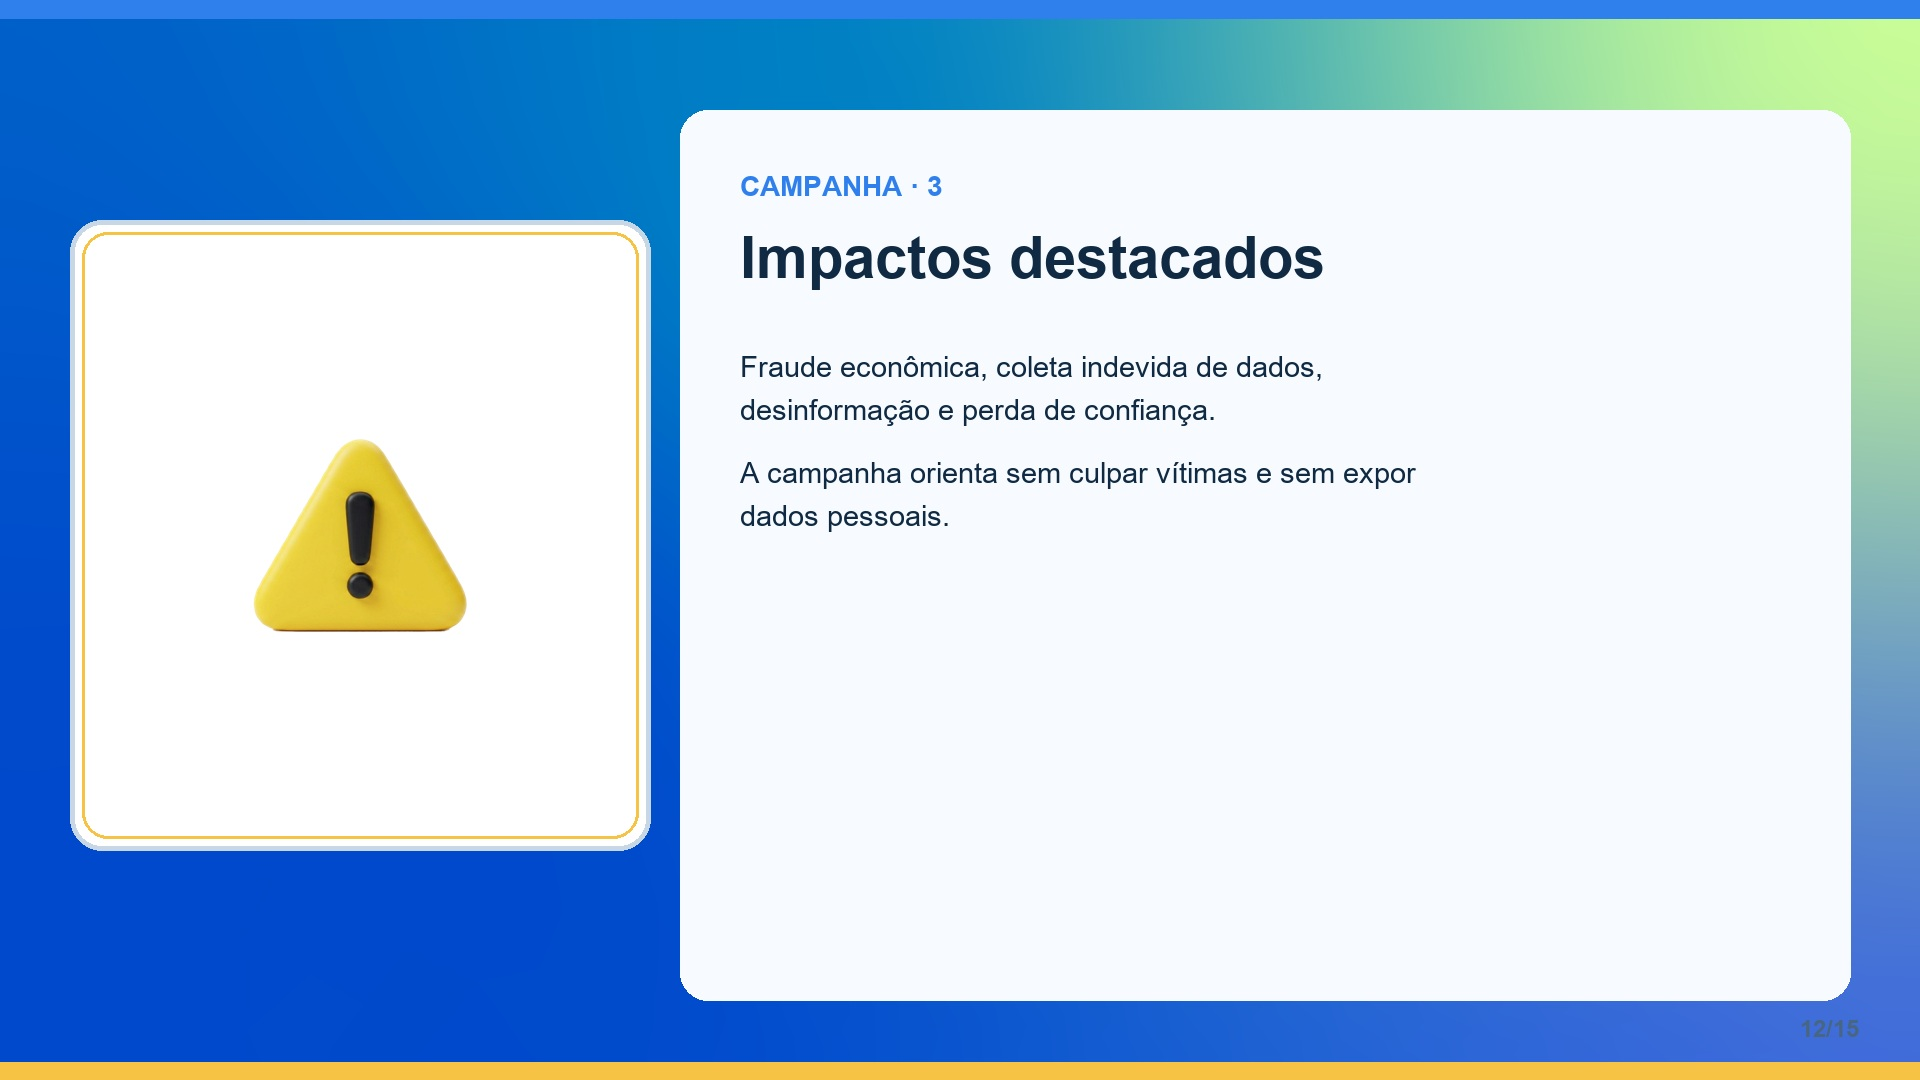
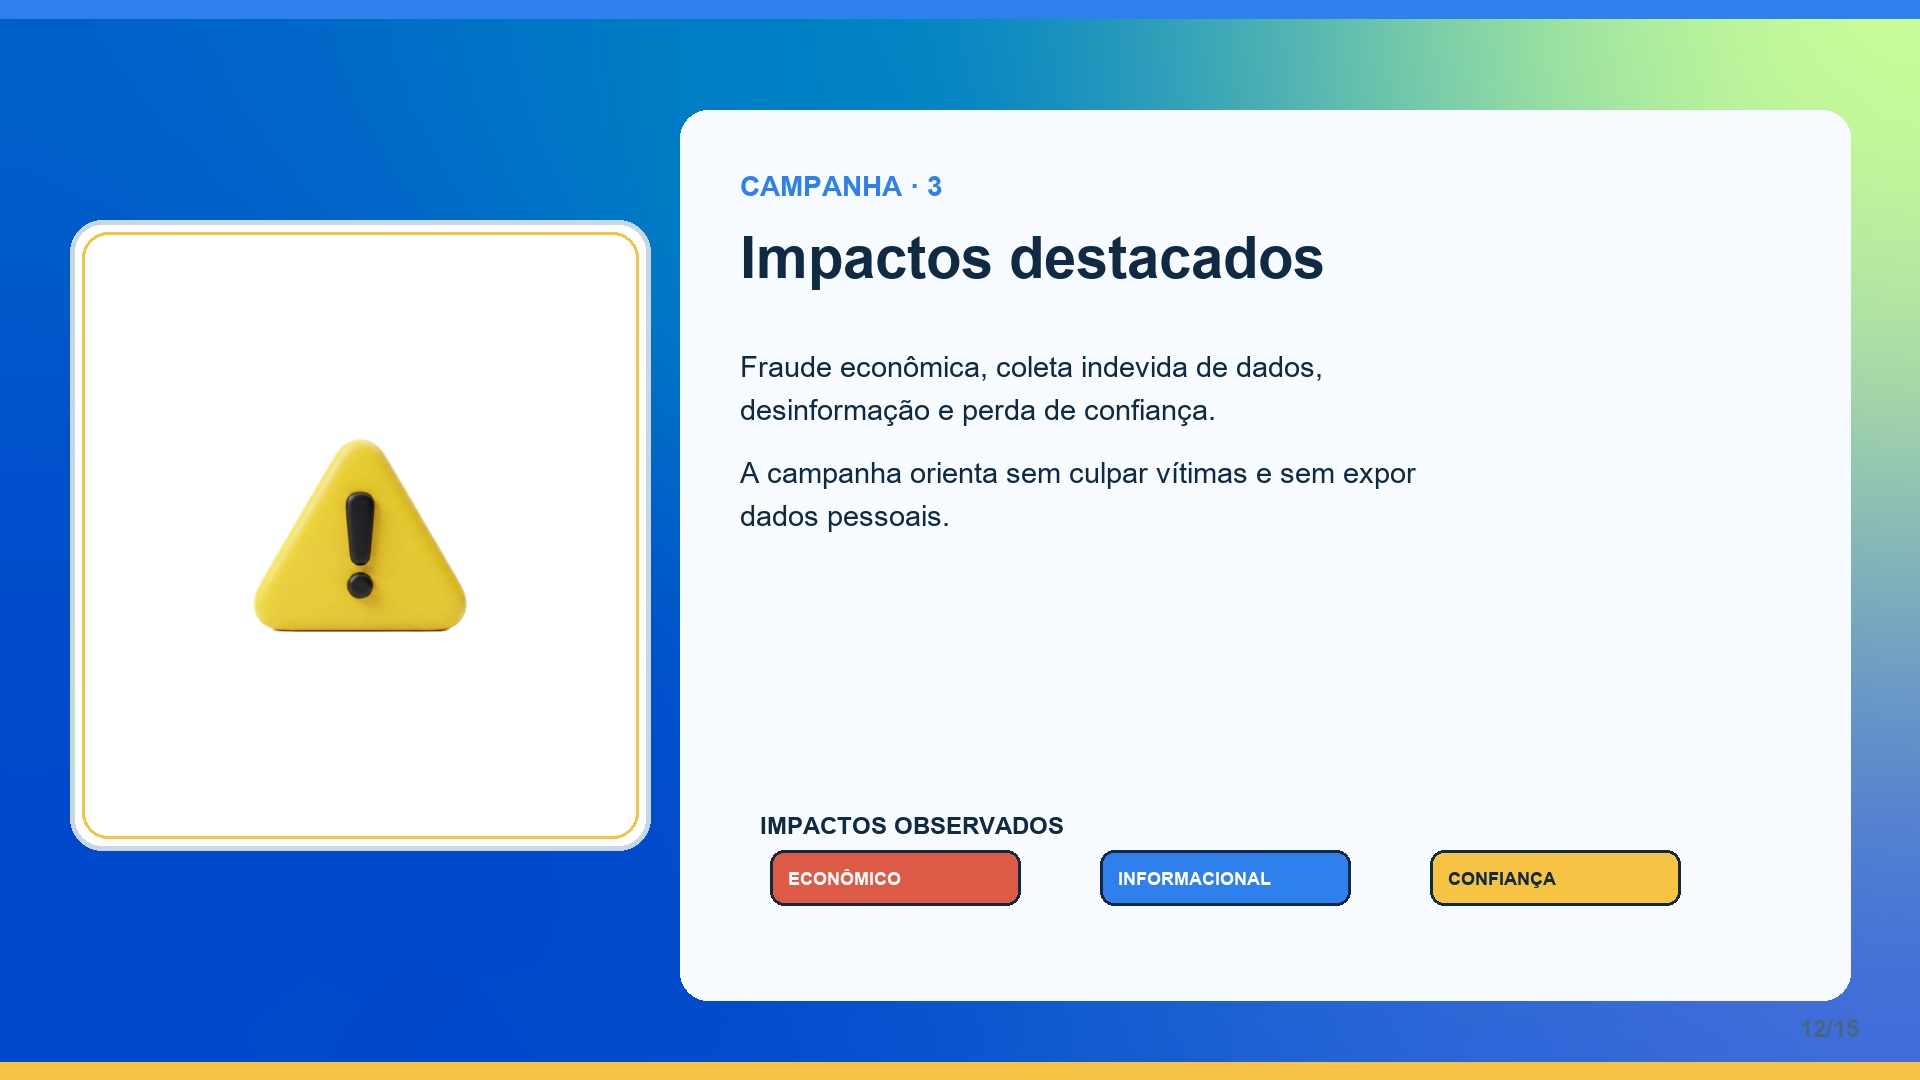
feat: gerar graficos correlacionados por slide

Changed region(s): [[0.375, 0.7333, 0.875, 0.8556]]

diff --git a/scripts/generate_n3_jpgs.py b/scripts/generate_n3_jpgs.py
@@ -23,6 +23,21 @@ def diagram(d, i):
     # Diagramas autorais: visualizam relações documentadas sem reproduzir mídia jornalística protegida.
     groups={2:['IMAGEM/VOZ','OFERTA','USUÁRIO'],3:['VÍDEO PRÉVIO','VOZ SINTÉTICA','ANÚNCIO'],5:['RELATO','CIRCULAÇÃO','IMPACTO'],6:['IA','IDENTIDADE','INCENTIVO'],7:['CONTEÚDO','CONFIANÇA','DANO'],8:['CONCEITO','EVIDÊNCIA','LIMITE'],9:['PAUSAR','CONFIRMAR','DENUNCIAR']}
     labels=groups.get(i)
+    if i==4:
+        d.line((760,855,1740,855),fill=(16,42,67),width=6)
+        for x,label in [(800,'ORIGEM'),(1120,'EDIÇÃO'),(1450,'CIRCULAÇÃO'),(1700,'CHECAGEM')]:
+            d.ellipse((x-18,837,x+18,873),fill=(246,195,68),outline=(16,42,67),width=3); d.text((x-55,885),label,font=font(20,1),fill=(16,42,67))
+        return
+    if i==10:
+        for n,(label,sub) in enumerate([('PÚBLICO','estudantes'),('MENSAGEM','direta'),('CANAL','escola')]):
+            x=770+n*335; d.rounded_rectangle((x,815,x+260,900),radius=16,fill=(16,42,67),outline=(246,195,68),width=3); d.text((x+18,830),label,font=font(21,1),fill=(255,255,255)); d.text((x+18,865),sub,font=font(19),fill=(255,255,255))
+            if n<2:d.line((x+260,857,x+335,y if False else 857),fill=(246,195,68),width=5)
+        return
+    if i==12:
+        d.text((760,812),'IMPACTOS OBSERVADOS',font=font(24,1),fill=(16,42,67))
+        for n,(label,color) in enumerate([('ECONÔMICO',(220,90,70)),('INFORMACIONAL',(47,128,237)),('CONFIANÇA',(246,195,68))]):
+            x=770+n*330; d.rounded_rectangle((x,850,x+250,905),radius=14,fill=color,outline=(16,42,67),width=3); d.text((x+18,868),label,font=font(18,1),fill=(16,42,67) if n==2 else (255,255,255))
+        return
     if not labels:return
     for n,label in enumerate(labels):
         x=735+n*365; y=820

diff --git a/docs/visual-graphs-plan.md b/docs/visual-graphs-plan.md
@@ -1,0 +1,20 @@
+# Plano de gráficos por slide
+
+## Prompt revisado
+
+> Para cada slide, associe o conteúdo a um gráfico ou diagrama que torne a relação visualmente explícita. Use gráfico quantitativo somente quando houver dado publicado, unidade, população, período e fonte verificável. Na ausência desses dados, use visualização qualitativa: fluxo, linha do tempo, matriz, cadeia causal, mapa de riscos ou checklist. Rotule o visual como diagrama autoral e mantenha fato, indício, hipótese e limitação separados. Preserve o fundo azul, cartões de alto contraste, proporção 16:9, acessibilidade e LGPD.
+
+## Implementação
+
+| Slides | Visual | Base da relação |
+|---|---|---|
+| 2–3 | cadeia de três etapas | imagem/voz → oferta → usuário; vídeo prévio → voz sintética → anúncio |
+| 4 | linha do processo | origem → edição → circulação → checagem |
+| 5–6 | cadeia causal | relato → circulação → impacto; IA → identidade → incentivo |
+| 7 | mapa qualitativo de riscos | conteúdo → confiança → dano |
+| 8 | matriz conceitual | conceito → evidência → limite |
+| 9 | fluxo de resposta | pausar → confirmar → denunciar |
+| 10 | mapa de comunicação | público → mensagem → canal |
+| 12 | mapa de impactos | econômico, informacional e confiança |
+
+Nenhum número, porcentagem, ranking ou tendência quantitativa foi criado sem fonte. Os visuais são sínteses autorais dos textos já documentados.

diff --git a/README.md b/README.md
@@ -17,6 +17,7 @@ Projeto-exemplo para o Ensino Médio (Nível 3), separado por documentação e c
 - `privacidade.html` e `docs/lgpd-compliance.md` — aviso público e documentação de conformidade LGPD.
 - `docs/lgpd-validation-2026-09-17.md` — relatório da revisão técnica do repositório.
 - `docs/ux-ui-assets-plan.md` — prompt revisado, regras UX/UI e matriz de encaixe dos assets.
+- `docs/visual-graphs-plan.md` — prompt e matriz de gráficos/diagramas correlacionados por slide.
 
 ## Evidência e limites
 
